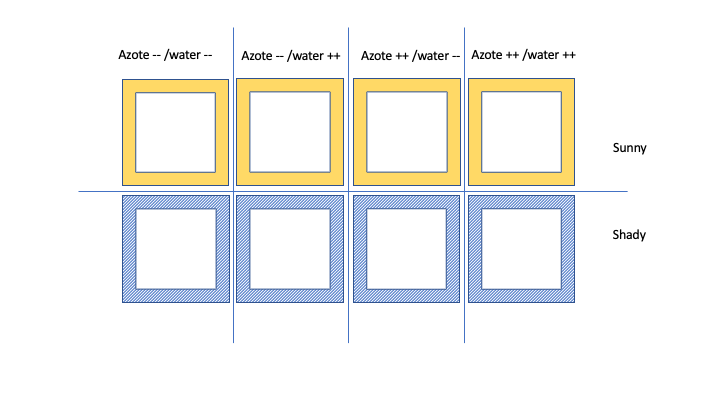
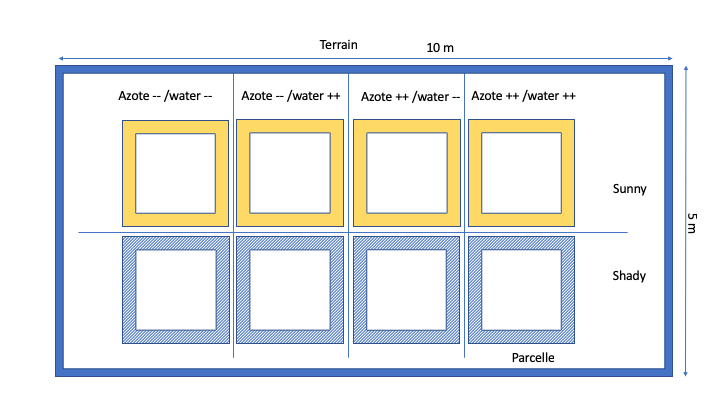
Finalize home page

Changed region(s): [[0.0611, 0.0889, 0.9778, 0.9481], [0.8556, 0.6519, 0.8861, 0.7111]]

diff --git a/src/app/documentation/project-example.component.html b/src/app/documentation/project-example.component.html
@@ -17,10 +17,33 @@
             Dans un second temps, nous décrirons les métadonnées associées à l'expérience et la saisied de ces métadonnées. 
             La culture se déroulera du  15 Mars au 15 aout 2021. Au total, 5 points d'observation seront établis, un par mois (15 Avril, 15 Mai, 15 Juin, 15 juillet et 15 août). 
             
-            Lors de ce point d'observation, nous préléverons 5 échantillons de feuilles qui seront mesurées. Plusiers facteurs expérimentaux seront pris en compte, le taux d'humidité des sols, le taux d'azote dans le milieu  de ciulture, l'ensoleillement sur la parcelle (éclairé/ à l'ombre). 
+            Lors de ce point d'observation, nous préléverons 5 échantillons de feuilles qui seront mesurées. 
+            
+            Plusiers facteurs expérimentaux seront pris en compte, le taux d'humidité des sols, le taux d'azote dans le milieu  de ciulture, l'ensoleillement sur la parcelle (éclairé/ à l'ombre). 
         </p>
-    <h4>Experimental design</h4>
-        <img src="assets/images/experimental_design.png" class="img-responsive" style="width:75%" alt="Image">
+        <h4>Matériel biologique</h4>
+        <p> 
+            Au total, 72 plantes seront cultivées, 9 par condition (parcelle). la taille du terrain est 10 m sur 5 m. Chaque parcelle mesure 1,80 m sur 1,80 m.
+        </p>
+        <h4>Design expérimental</h4>
+            <img src="assets/images/experimental_design.png" class="img-responsive" style="width:75%" alt="Image">
+
+            <img src="assets/images/parcelle.png" class="img-responsive" style="width:75%" alt="Image">
+        <h4>Protocole de croissance</h4>
+        <p>
+            Les plantes sont traités avec différents taux d'azote. un taux faible (2%) et un taux élevé (10%)
+        </p>
+
+        <h4>Facteurs expérimentaux</h4>
+        <p>
+            Les plantes sont cultivés sous différentes conditions et traitement. 
+            Ces facteurs expérimentaux seront décrits à l'aide du formulaire correspondant. <a class="nav-link"  [routerLink]="['/investigation']">factor</a>
+            
+            
+        </p>
+    
+    
+    
     <h4>Add investigation</h4> 
     <p>
         Tout d'abord, il vous faut créer une investigation, il suffit de cliquer sur le <button class="btn btn-success btn-xs fa fa-plus"></button> associé et un menu apparaitra dans lequel vous pourrez choisir entre trois propostions
@@ -67,7 +90,9 @@
     <h4>Add STUDY</h4> 
     <p>
         L'investigation est le niveau le plus haut de la hiérarchie MIAPPE et peut contenir différentes études en son sein. 
-        Dans notre cas, nous allons créer une seule étude. Le formulaire pour décrire une étude contient 20 champs à remplir <a class="nav-link"  [routerLink]="['/investigation']" routerLinkActive="active-link"><i class="fa fa-leaf"></i>Invvestigation</a>. 
+        Dans notre cas, nous allons créer une seule étude que nous nommerons tomato1_study1. 
+        
+        Le formulaire pour décrire une étude contient 20 champs à remplir <a class="nav-link"  [routerLink]="['/investigation']">Invvestigation</a>. 
         Certains champs sont obligatoires comme l'identifiant de l'étude qui se doit d'être unique. 
     </p>
 </mat-card>

diff --git a/src/app/home/home.component.html b/src/app/home/home.component.html
@@ -9,10 +9,10 @@
     <div id="carouselExampleControls" class="carousel slide" data-ride="carousel">
         <div class="carousel-inner">
           <div class="carousel-item active">
-            <img style="width:60%;height:60%;" class="d-block w-100" src="assets/images/inrae.png" alt="First slide">
+            <img style="width:50%;height:50%;" class="d-block w-100" src="assets/images/inrae.png" alt="First slide">
           </div>
           <div class="carousel-item">
-            <img style="width:60%;height:60%;" class="d-block w-100" src="assets/images/cbib.jpg" alt="Second slide">
+            <img style="width:50%;height:50%;" class="d-block w-100" src="assets/images/cbib.jpg" alt="Second slide">
           </div>
         </div>
         <a class="carousel-control-prev" href="#carouselExampleControls" role="button" data-slide="prev">
@@ -32,6 +32,9 @@
         In order to allow biologists to capture and store the environmental metadata associated with plant phenotyping experiments and to facilitate a standardized exchange of information, the LINDA Web interface allows the user to insert his metadata according to the MIAPPE model and related ontologies (Plant ontology, XEO, ENVo, etc.).
         Exporting to the ISA-tab format will allow subsequent interconnection with the FAIRDOM suite so that all metadata can be linked to existing experiments.
         The ontologies present in the MIAPPE model are integrated in order to describe the metadata associated with the experiment.
+        The final objective of LINDA is to correlate together data and metadata from upstream and downstream analyses.
+        PLATO service designed to capture and store experimental data from metabolite, enzyme profiling. By aggregating data from downstream metabolomics assays with 
+        upstream experimental/environmental data/metadata, Linda will significantly facilitate phenotypes and metabolism mechanisms understanding more easily 
       </p>  
       <hr>
       <br>      

diff --git a/src/app/app.module.ts b/src/app/app.module.ts
@@ -90,6 +90,7 @@ import { MaterialForm3Component } from './forms/material-form3.component';
 import { DataExplorationComponent } from './documentation/data-exploration.component';
 import { InvestigationComponent } from './documentation/miappe_components/investigation.component';
 import { ProjectExampleComponent } from './documentation/project-example.component';
+import { StudyComponent } from './documentation/miappe_components/study.component';
 
 
 
@@ -141,8 +142,8 @@ import { ProjectExampleComponent } from './documentation/project-example.compone
     MaterialForm3Component,
     DataExplorationComponent,
     InvestigationComponent,
-    ProjectExampleComponent
-    
+    ProjectExampleComponent,
+    StudyComponent    
     
 
     

diff --git a/src/assets/css/style.css b/src/assets/css/style.css
@@ -13,10 +13,10 @@
   }
 }
 .carousel{
-    height: 400px;
+    height: 300px;
 }
 .carousel-item {
-    height: 400px;
+    height: 300px;
   }
   
 .carousel-item img {
